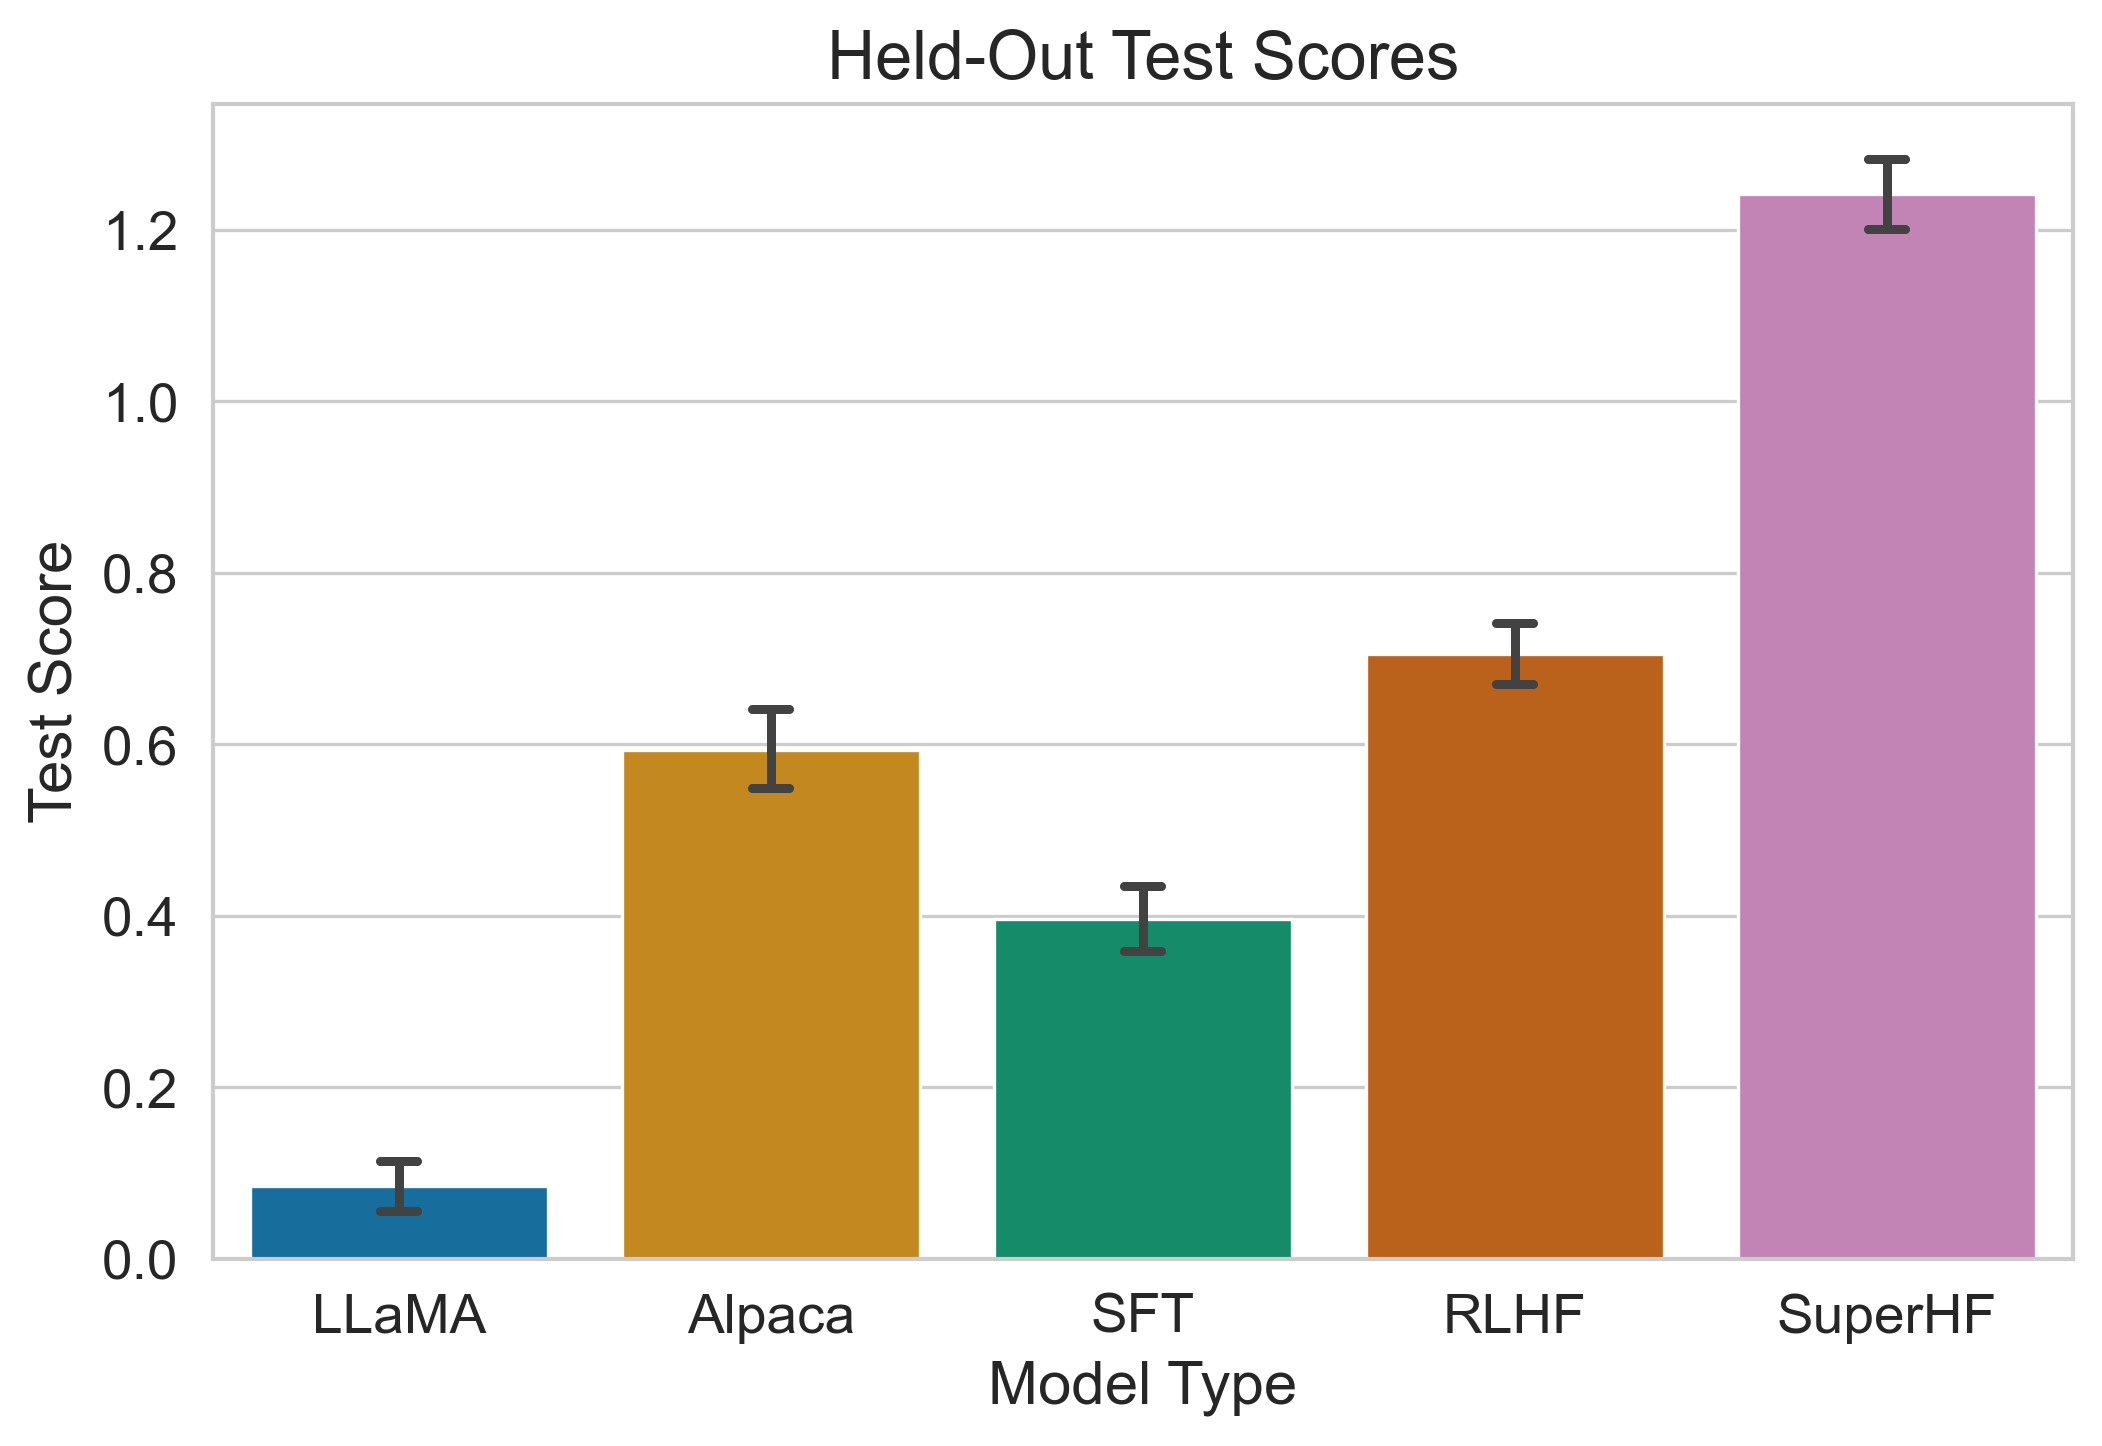
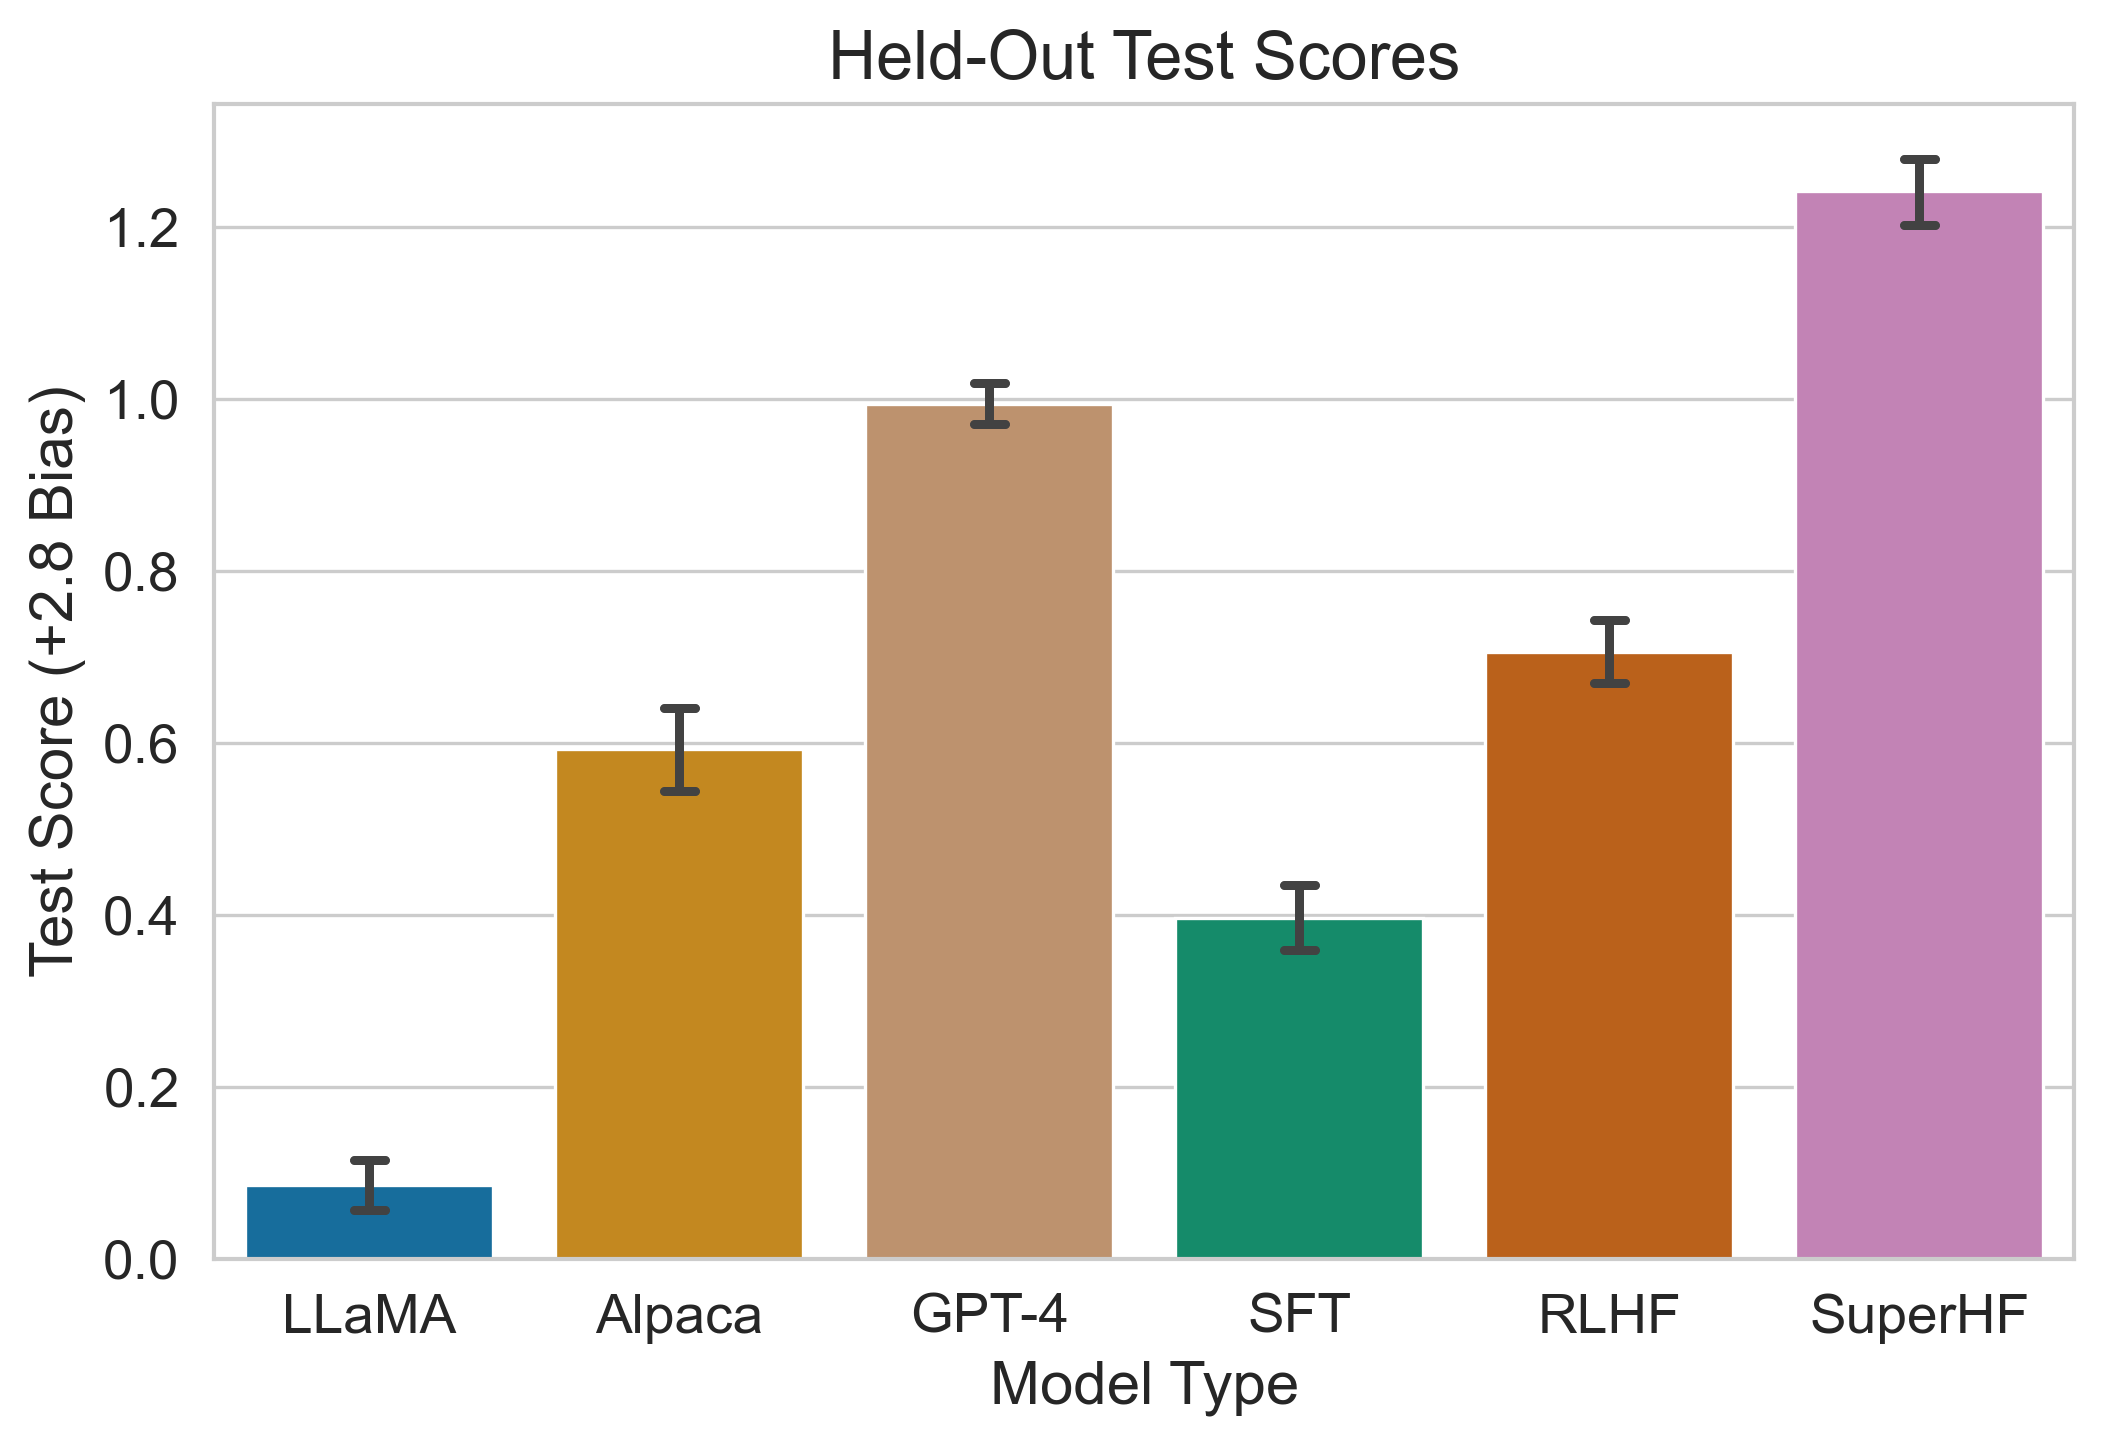
Add gpt-4 to model graphs

diff --git a/charts/model_comparsions.py b/charts/model_comparsions.py
@@ -5,7 +5,12 @@ import matplotlib.pyplot as plt
 import pandas as pd
 import seaborn as sns
 
-from chart_utils import get_test_scores, initialize_plot, save_plot
+from chart_utils import (
+    get_test_scores,
+    initialize_plot,
+    save_plot,
+    model_type_to_palette_color,
+)
 
 OUTPUT_FILE = "./charts/models/model_comparisons.png"
 
@@ -22,6 +27,7 @@ def main() -> None:
     model_names = [
         "llama-7b.json",
         "alpaca_7b.json",
+        "gpt-4_2023-05-13_completions_output.json",
         "sft-on-preferences-v1.json",
         # "test-save-alpaca@model-2048-prompts-batch-size-8.json",
         "rlhf-v3-lr-5.0e-6-batch-16@gold-run.json",
@@ -30,7 +36,7 @@ def main() -> None:
     ]
 
     # Create an empty list for x-axis labels
-    x_labels = ["LLaMA", "Alpaca", "SFT", "RLHF", "SuperHF"]
+    x_labels = ["LLaMA", "Alpaca", "GPT-4", "SFT", "RLHF", "SuperHF"]
 
     # Calculate plot values for data
     all_data = []
@@ -50,18 +56,20 @@ def main() -> None:
     # Create the plot
     errorbar = "ci"
     plt.rcParams["lines.markersize"] = 1
+    palette = [model_type_to_palette_color(model_name) for model_name in x_labels]
     sns.barplot(
         data=dataframe,
         x="Model",
         y="Score",
         capsize=0.1,
         errorbar=errorbar,
+        palette=palette,
         # color=model_type_to_palette_color("superhf"),
     )
 
     # Set labels and title
     plt.xlabel("Model Type")
-    plt.ylabel("Test Score")
+    plt.ylabel("Test Score (+2.8 Bias)")
     plt.title("Held-Out Test Scores")
 
     # Set x-ticks

diff --git a/charts/chart_utils.py b/charts/chart_utils.py
@@ -151,20 +151,21 @@ def model_type_to_palette_color(model_type: str) -> Any:
         "alpaca": "instruct",
         "sft": "sft_preferences",
         "rlhf": "rlhf",
+        "superhf": "superhf",
+        "shf": "superhf",
+        "gpt-4": "gpt-3.5",
     }
-    model_type = model_name_to_type.get(model_type, model_type)
-    if "superhf" in model_type:
-        model_type = "superhf"
-    if "rlhf" in model_type:
-        model_type = "rlhf"
-
+    for model_name, model_value in model_name_to_type.items():
+        if model_name in model_type:
+            model_type = model_value
     all_model_types = [
         "pretrained",
         "instruct",
         "sft_preferences",
         "rlhf",
         "superhf",
-        "gpt-3.5",
+        "gpt",
+        "gpt-4",
     ]
     assert model_type in all_model_types
     return _get_color_from_palette(all_model_types.index(model_type))
